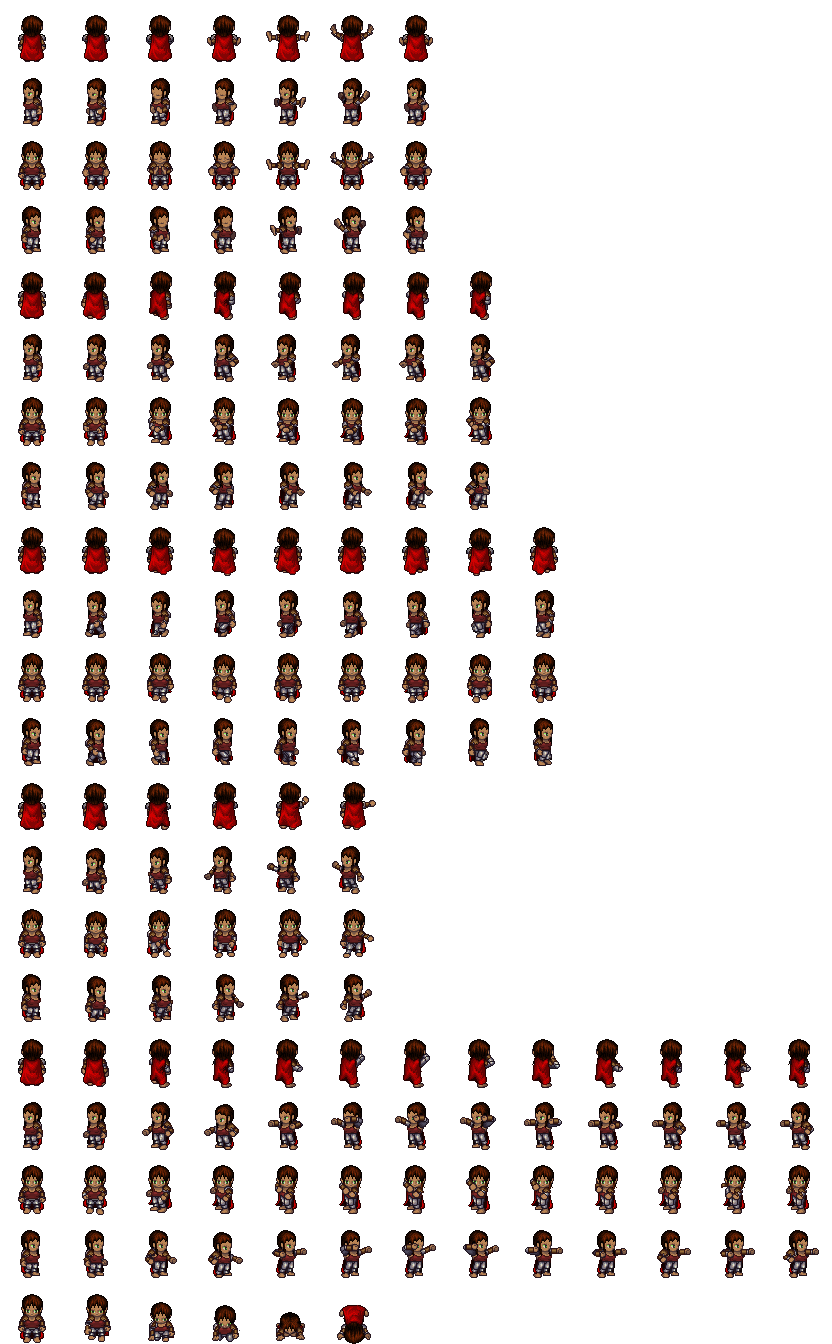
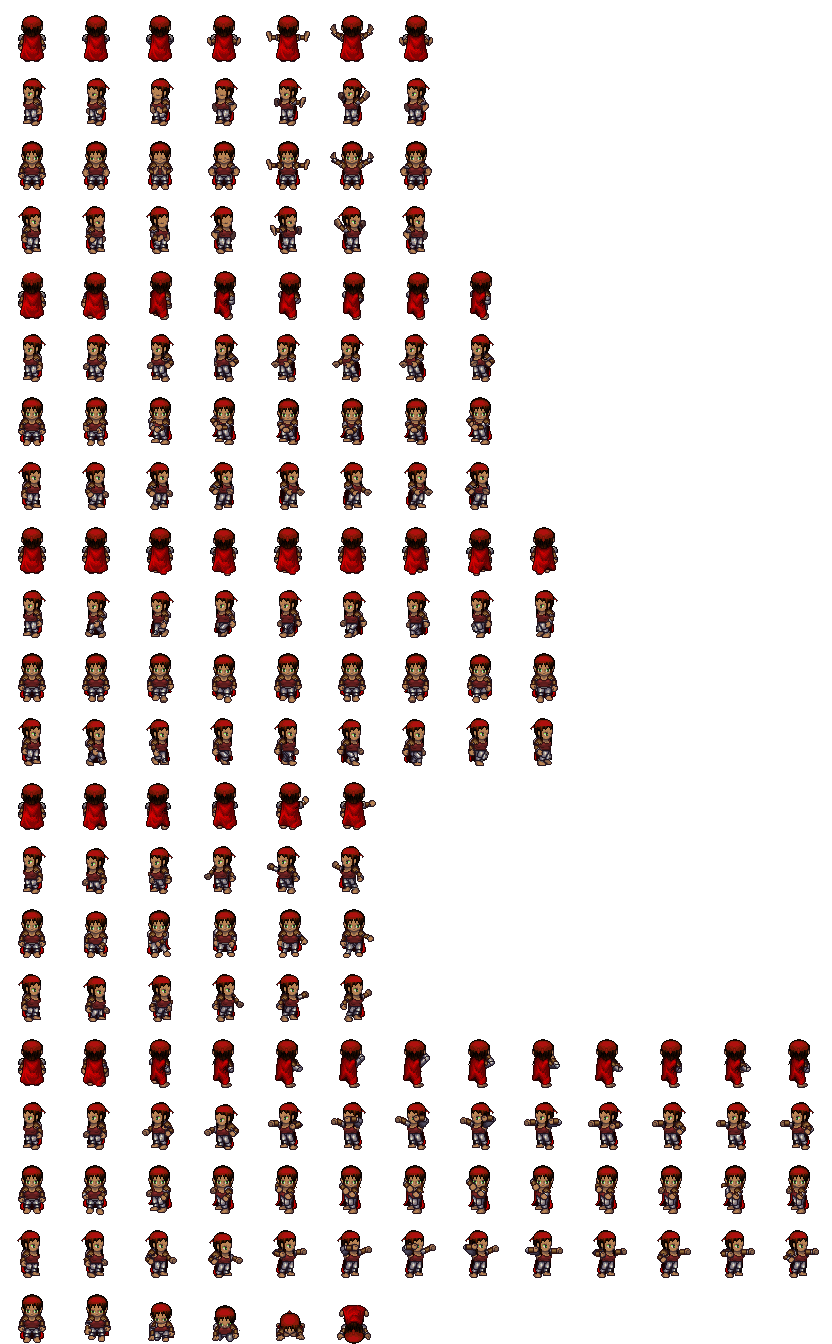
Added a Hat to the Pirate Girl

diff --git a/maps.js b/maps.js
@@ -92,9 +92,9 @@ MapManager.prototype.initialize = function () {
     map01.addEntity(new Chest(19*TILE_SIZE, 19*TILE_SIZE, 2, Inventory.LIBRARY.PIRATE_HAT));
     map01.addEntity(new Chest(6*TILE_SIZE, 6*TILE_SIZE, 0, Inventory.LIBRARY.HEALTH_POTION));
     map01.addEntity(new Chest(12*TILE_SIZE, 27*TILE_SIZE, 1, new Currency({value: 5, name: "Gold"})));
-    //map01.addEntity(new Chest(1*TILE_SIZE, 20*TILE_SIZE, 2, "an Emerald!"));
+    map01.addEntity(new Chest(1*TILE_SIZE, 20*TILE_SIZE, 2, new Currency({value: 5, name: "Gold"})));
     map01.addEntity(new Chest(30*TILE_SIZE, 1*TILE_SIZE, 1, new Currency({value: 5, name: "Gold"})));
-    // map01.addEntity(new Chest(24*TILE_SIZE, 28*TILE_SIZE, 2, "an Emerald!"));
+    map01.addEntity(new Chest(24*TILE_SIZE, 28*TILE_SIZE, 2, new Currency({value: 5, name: "Gold"})));
     
     //HIDDEN CHESTS
     map01.addEntity(new Chest(1*TILE_SIZE, 2*TILE_SIZE, 1, new Currency({value: 5, name: "Gold"})));
@@ -133,11 +133,11 @@ MapManager.prototype.initialize = function () {
     map02.addEntity(new UndeadCreeper(27*TILE_SIZE, 10*TILE_SIZE));
 	
 	//Obvious Chests
-	// map02.addEntity(new Chest(1*TILE_SIZE, 1*TILE_SIZE, 2, "an Emerald!"));
+	map02.addEntity(new Chest(1*TILE_SIZE, 1*TILE_SIZE, 2, new Currency({value: 5, name: "Gold"})));
 	map02.addEntity(new Chest(1*TILE_SIZE, 23*TILE_SIZE, 1, new Currency({value: 5, name: "Gold"})));
-	// map02.addEntity(new Chest(14*TILE_SIZE, 16*TILE_SIZE, 2, "an Emerald!"));
+	map02.addEntity(new Chest(14*TILE_SIZE, 16*TILE_SIZE, 2, new Currency({value: 5, name: "Gold"})));
 	map02.addEntity(new Chest(15*TILE_SIZE, 1*TILE_SIZE, 1, new Currency({value: 5, name: "Gold"})));
-	// map02.addEntity(new Chest(25*TILE_SIZE, 15*TILE_SIZE, 2, "an Emerald!"));
+	map02.addEntity(new Chest(25*TILE_SIZE, 15*TILE_SIZE, 2, new Currency({value: 5, name: "Gold"})));
 	
     //HIDDEN CHESTS
     map02.addEntity(new Chest(28*TILE_SIZE + 16, 26*TILE_SIZE - 12, 1, new Currency({value: 5, name: "Gold"})));
@@ -184,11 +184,11 @@ MapManager.prototype.initialize = function () {
 	map03.addEntity(new YouWinEvent(9*TILE_SIZE, 0*TILE_SIZE, 2*TILE_SIZE, 1.3*TILE_SIZE));
 	
 	//Obvious Chests
-    // map03.addEntity(new Chest(2*TILE_SIZE, 22*TILE_SIZE, 2, "an Emerald!"));
+    map03.addEntity(new Chest(2*TILE_SIZE, 22*TILE_SIZE, 2, new Currency({value: 5, name: "Gold"})));
     map03.addEntity(new Chest(29*TILE_SIZE, 21*TILE_SIZE, 1, new Currency({value: 5, name: "Gold"})));
-    // map03.addEntity(new Chest(25*TILE_SIZE, 9*TILE_SIZE, 2, "an Emerald!"));
+    map03.addEntity(new Chest(25*TILE_SIZE, 9*TILE_SIZE, 2, new Currency({value: 5, name: "Gold"})));
     map03.addEntity(new Chest(3*TILE_SIZE, 12*TILE_SIZE, 1, new Currency({value: 5, name: "Gold"})));
-    // map03.addEntity(new Chest(2*TILE_SIZE, 2*TILE_SIZE, 2, "an Emerald!"));
+    map03.addEntity(new Chest(2*TILE_SIZE, 2*TILE_SIZE, 2, new Currency({value: 5, name: "Gold"})));
 	
     //Return to Level 2
 	map03.addEntity(new MapTeleportEvent(15*TILE_SIZE, 29*TILE_SIZE+TILE_SIZE-20, TILE_SIZE*2, 20, 2, 1641, 470));

diff --git a/npcs.js b/npcs.js
@@ -202,7 +202,7 @@ PirateGirl.prototype.collisionTrigger = function (player, startX, startY) {
 PirateGirl.prototype.interactTrigger = function () {
 	if(gm.player.tryRemoveItem("Pirate Hat")) {
 		this.storyStage = 3;
-		this.animation = new Animation(gm.am.getAsset("./img/PirateGirlWithBandana.png"), 
+		this.animation = new Animation(gm.am.getAsset("./img/PirateGirlWithPirateHat.png"), 
 		 		TILE_SIZE, TILE_SIZE, 9, 0.20, 9, true, 1);
 	}
 	this.story();
@@ -213,19 +213,19 @@ PirateGirl.prototype.story = function () {
 	case 1:
 		gm.openDialogueBox(this.constructor.name, 
 				"Ship Captin: Please adventurer. My ship was overtaken by bandits. " +
-				"I barely escaped with my life, and lost my favorite bandana. " +
+				"I barely escaped with my life, and lost my favorite Hat. " +
 				"If you can get all those bandits off my ship, I'll tell you a " +
-				"valuable secret. To prove you have done it, return my favorite bandana to me.");
+				"valuable secret. To prove you have done it, return my favorite Hat to me.");
 		this.storyStage = 2;
 		break;
 	case 2:
 		gm.openDialogueBox(this.constructor.name, 
-				"Why are you still standing here? Go get my hat! If it makes you feel better, " +
+				"Why are you still standing here? Go get my Hat! If it makes you feel better, " +
 				"pretend it's a quest.");
 		break;
 	case 3:
 		gm.openDialogueBox(this.constructor.name, 
-				"Oh thank you! I love this bandana! Ok, my secret is this... There is a tree in the " +
+				"Oh thank you! I love this Hat! Ok, my secret is this... There is a tree in the " +
 				"maze near the castle, where I hid the castle key. But beware, that castle while" +
 				" full of treasure, is quite dangerous.");
 		this.storyStage = 4;

diff --git a/managers/gamemanager.js b/managers/gamemanager.js
@@ -45,7 +45,7 @@ GameManager.prototype.queueAssets = function () {
 	this.am.queueDownload("./img/player1.png");
 	this.am.queueDownload("./img/player.png");
 	this.am.queueDownload("./img/PirateGirl.png");
-	this.am.queueDownload("./img/PirateGirlWithBandana.png");
+	this.am.queueDownload("./img/PirateGirlWithPirateHat.png");
     this.am.queueDownload("./img/GrassOnlyBackground.png");
     this.am.queueDownload("./img/collidable_background.png");
     this.am.queueDownload("./img/Background_Layer.png");
